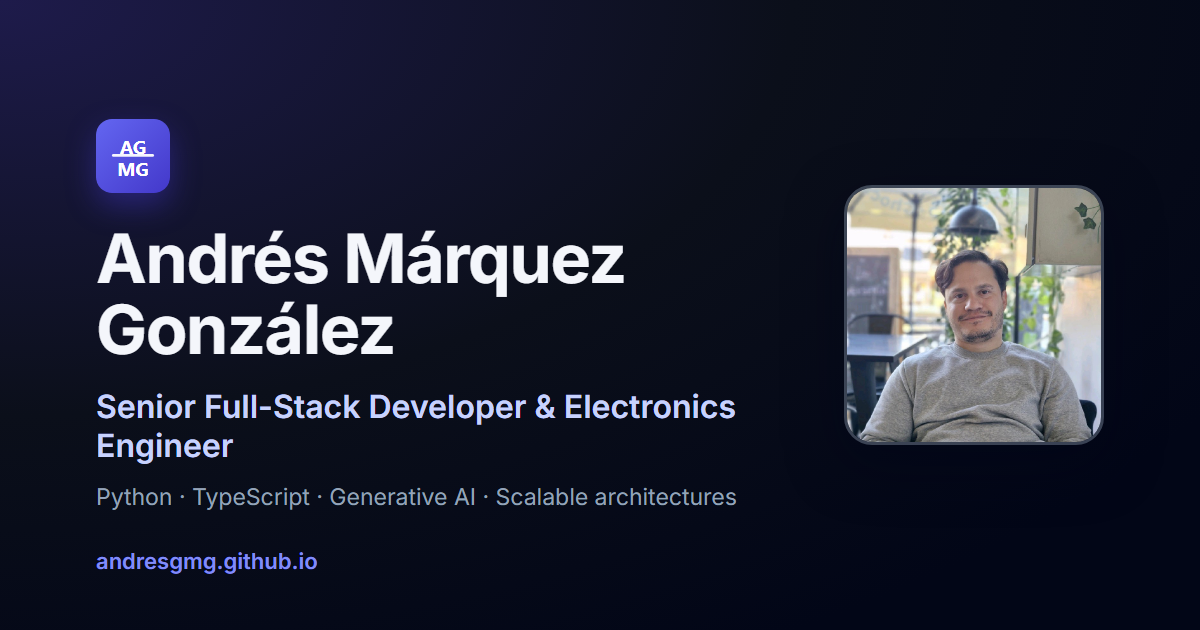
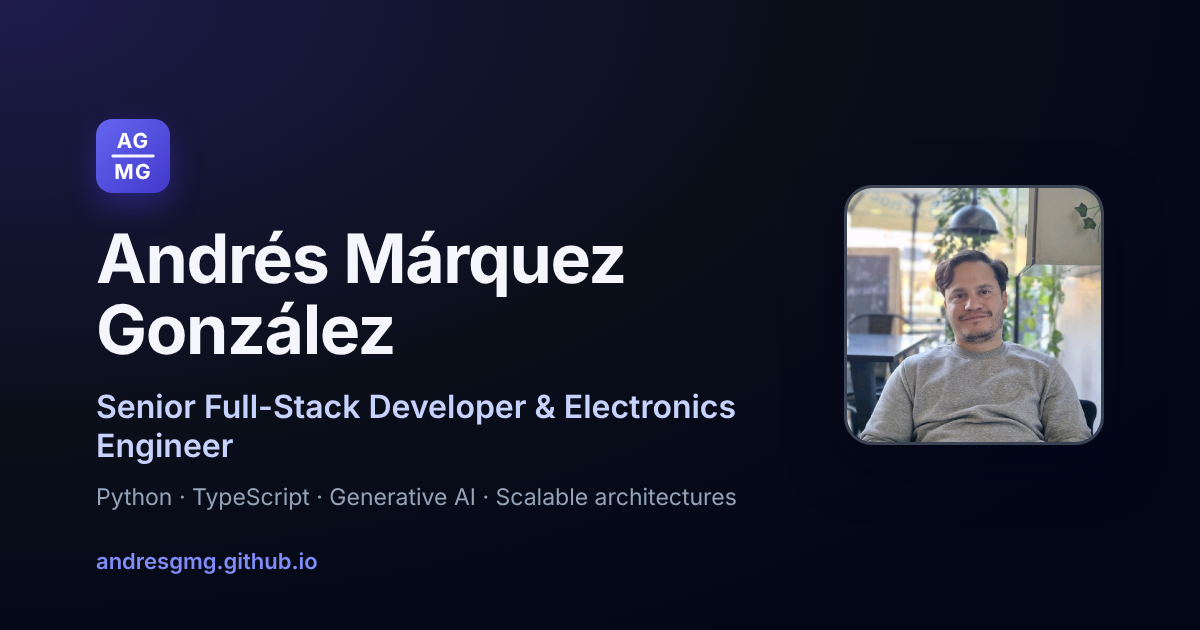
feat(seo): ProfilePage JSON-LD, AI-friendly endpoints, optimized hero image
- JSON-LD: wrap Person in ProfilePage/WebSite, add worksFor, hasOccupation,
  alumniOf from data, alternateName, og:image:alt and rel="me".
- New build-time endpoints generated from src/data: /llms.txt (llmstxt.org
  index), /llms-full.txt (full CV in Markdown, EN + ES) and /resume.json
  (JSON Resume schema). Shared renderers live in src/lib/cv-text.ts.
- Hero photo moved to src/assets and served through astro:assets as
  responsive WebP (135 KB JPEG -> 15/45 KB); og-image script inlines the
  photo and the self-hosted font so it runs offline.
- Un-ignore src/lib (the inherited Python .gitignore hid it).

Claude-Session: https://claude.ai/code/session_01Y165Hydmqg4uXAjxFpg5pz

diff --git a/src/lib/cv-text.ts b/src/lib/cv-text.ts
@@ -1,0 +1,190 @@
+import {
+  certifications,
+  education,
+  experience,
+  profile,
+  projects,
+  skillCategories,
+  spokenLanguages,
+} from '../data';
+import type { Lang } from '../data/types';
+import { formatDateRange, useTranslations } from '../i18n/utils';
+
+/**
+ * Plain-text / Markdown renderers of the same content that powers the site and the PDF CV.
+ * Used by the AI-friendly endpoints (`/llms.txt`, `/llms-full.txt`) and `/resume.json`.
+ */
+
+const SITE = profile.website.replace(/\/$/, '');
+
+const lines = (...parts: (string | false | null | undefined)[]) =>
+  parts.filter((p): p is string => typeof p === 'string').join('\n');
+
+/** Full CV as Markdown, one language. */
+export function cvMarkdown(lang: Lang): string {
+  const t = useTranslations(lang);
+  const work = experience.filter((e) => e.kind === 'work');
+  const freelance = experience.filter((e) => e.kind === 'freelance');
+
+  const role = (e: (typeof experience)[number]) =>
+    lines(
+      `### ${e.title[lang]} — ${e.company}`,
+      `${formatDateRange(e.start, e.end, lang)} · ${e.location[lang]}${e.url ? ` · ${e.url}` : ''}`,
+      '',
+      ...e.highlights[lang].map((h) => `- ${h}`),
+      '',
+      `${t('experience.stack')}: ${e.stack.join(', ')}`,
+      '',
+    );
+
+  return lines(
+    `# ${profile.name}`,
+    '',
+    `**${profile.headline[lang]}** — ${profile.tagline[lang]}`,
+    '',
+    `- ${profile.location[lang]}`,
+    `- ${profile.email}`,
+    `- ${SITE}`,
+    ...profile.socials
+      .filter((s) => s.href.startsWith('http'))
+      .map((s) => `- ${s.label}: ${s.href}`),
+    `- CV (PDF): ${SITE}${profile.cv.en} · ${SITE}${profile.cv.es}`,
+    '',
+    `## ${t('cv.summary')}`,
+    '',
+    profile.summary[lang],
+    '',
+    `## ${t('cv.competencies')}`,
+    '',
+    ...skillCategories.map((c) => `- **${c.name[lang]}:** ${c.skills.join(', ')}`),
+    '',
+    `## ${t('cv.experience')}`,
+    '',
+    ...work.map(role),
+    `## ${t('experience.freelance')}`,
+    '',
+    ...freelance.map(role),
+    `## ${t('section.projects')}`,
+    '',
+    ...projects.map(
+      (p) =>
+        `- **${p.name}** — ${p.description[lang]}${p.url ? ` (${p.url})` : ''}${p.repo ? ` · ${p.repo}` : ''}`,
+    ),
+    '',
+    `## ${t('cv.education')}`,
+    '',
+    ...education.map(
+      (ed) => `- ${ed.degree[lang]} — ${ed.institution}, ${ed.location[lang]} (${ed.start}–${ed.end})`,
+    ),
+    '',
+    `## ${t('cv.certifications')}`,
+    '',
+    ...certifications.map(
+      (c) =>
+        `- ${c.name[lang]} — ${c.issuer}${c.year ? ` (${c.year})` : ''}${c.url ? ` · ${c.url}` : ''}`,
+    ),
+    '',
+    `## ${t('cv.languages')}`,
+    '',
+    ...spokenLanguages.map((l) => `- ${l.name[lang]}: ${l.level[lang]}`),
+    '',
+  );
+}
+
+/** Short `/llms.txt` index following the llmstxt.org convention. */
+export function llmsIndex(): string {
+  const current = experience.filter((e) => e.end === null);
+  const linkedin = profile.socials.find((s) => s.icon === 'linkedin');
+  const github = profile.socials.find((s) => s.icon === 'github');
+
+  return lines(
+    `# ${profile.name}`,
+    '',
+    `> ${profile.headline.en}. ${profile.summary.en}`,
+    '',
+    `${profile.name} (Andrés Márquez, @andresgmg) is based in ${profile.location.en}. Bilingual portfolio: English at ${SITE}/ and Spanish at ${SITE}/es/.`,
+    '',
+    '## Current roles',
+    '',
+    ...current.map((e) => `- ${e.title.en} at ${e.company} (${formatDateRange(e.start, e.end, 'en')})`),
+    '',
+    '## Core skills',
+    '',
+    ...skillCategories.map((c) => `- ${c.name.en}: ${c.skills.join(', ')}`),
+    '',
+    '## Resources',
+    '',
+    `- [Full CV (Markdown, EN + ES)](${SITE}/llms-full.txt): every role, highlight, skill, degree and certification`,
+    `- [JSON Resume](${SITE}/resume.json): machine-readable CV (jsonresume.org schema)`,
+    `- [CV PDF — English](${SITE}${profile.cv.en})`,
+    `- [CV PDF — Spanish](${SITE}${profile.cv.es})`,
+    github && `- [GitHub](${github.href})`,
+    linkedin && `- [LinkedIn](${linkedin.href})`,
+    `- Contact: ${profile.email}`,
+    '',
+    '## Optional',
+    '',
+    `- [Portfolio (English)](${SITE}/)`,
+    `- [Portafolio (Español)](${SITE}/es/)`,
+    '',
+  );
+}
+
+/** CV in the JSON Resume schema (https://jsonresume.org/schema). English strings. */
+export function jsonResume(imageUrl?: string) {
+  const lang: Lang = 'en';
+  const toDate = (ym: string) => `${ym}-01`;
+  const linkedin = profile.socials.find((s) => s.icon === 'linkedin');
+  const github = profile.socials.find((s) => s.icon === 'github');
+
+  return {
+    $schema: 'https://raw.githubusercontent.com/jsonresume/resume-schema/v1.0.0/schema.json',
+    basics: {
+      name: profile.name,
+      label: profile.headline[lang],
+      image: imageUrl,
+      email: profile.email,
+      phone: profile.phone,
+      url: SITE,
+      summary: profile.summary[lang],
+      location: { city: 'Santiago', countryCode: 'CL' },
+      profiles: [
+        github && { network: 'GitHub', username: 'andresgmg', url: github.href },
+        linkedin && { network: 'LinkedIn', username: 'andresgmg', url: linkedin.href },
+      ].filter(Boolean),
+    },
+    work: experience.map((e) => ({
+      name: e.company,
+      position: e.title[lang],
+      url: e.url,
+      location: e.location[lang],
+      startDate: toDate(e.start),
+      endDate: e.end ? toDate(e.end) : undefined,
+      summary: e.kind === 'freelance' ? 'Freelance / consulting' : undefined,
+      highlights: e.highlights[lang],
+      keywords: e.stack,
+    })),
+    education: education.map((ed) => ({
+      institution: ed.institution,
+      area: 'Electronics Engineering',
+      studyType: 'Bachelor',
+      startDate: ed.start,
+      endDate: ed.end,
+    })),
+    certificates: certifications.map((c) => ({
+      name: c.name[lang],
+      issuer: c.issuer,
+      date: c.year,
+      url: c.url,
+    })),
+    skills: skillCategories.map((c) => ({ name: c.name[lang], keywords: c.skills })),
+    languages: spokenLanguages.map((l) => ({ language: l.name[lang], fluency: l.level[lang] })),
+    projects: projects.map((p) => ({
+      name: p.name,
+      description: p.description[lang],
+      url: p.url ?? p.repo,
+      keywords: p.tags,
+    })),
+    meta: { canonical: `${SITE}/resume.json`, lastModified: new Date().toISOString() },
+  };
+}

diff --git a/src/pages/resume.json.ts b/src/pages/resume.json.ts
@@ -1,0 +1,14 @@
+import type { APIRoute } from 'astro';
+import { getImage } from 'astro:assets';
+import profilePhoto from '../assets/profile.jpg';
+import { profile } from '../data';
+import { jsonResume } from '../lib/cv-text';
+
+/** Machine-readable CV in the JSON Resume schema (https://jsonresume.org/schema). */
+export const GET: APIRoute = async () => {
+  const photo = await getImage({ src: profilePhoto, width: 640, format: 'webp' });
+  const imageUrl = new URL(photo.src, profile.website).href;
+  return new Response(JSON.stringify(jsonResume(imageUrl), null, 2), {
+    headers: { 'Content-Type': 'application/json; charset=utf-8' },
+  });
+};

diff --git a/src/pages/llms-full.txt.ts b/src/pages/llms-full.txt.ts
@@ -1,0 +1,8 @@
+import type { APIRoute } from 'astro';
+import { cvMarkdown } from '../lib/cv-text';
+
+/** Full CV in Markdown, English first then Spanish. Generated from src/data at build time. */
+export const GET: APIRoute = () =>
+  new Response([cvMarkdown('en'), '---', '', cvMarkdown('es')].join('\n'), {
+    headers: { 'Content-Type': 'text/plain; charset=utf-8' },
+  });

diff --git a/src/pages/llms.txt.ts b/src/pages/llms.txt.ts
@@ -1,0 +1,6 @@
+import type { APIRoute } from 'astro';
+import { llmsIndex } from '../lib/cv-text';
+
+/** AI-crawler friendly index (https://llmstxt.org). Generated from src/data at build time. */
+export const GET: APIRoute = () =>
+  new Response(llmsIndex(), { headers: { 'Content-Type': 'text/plain; charset=utf-8' } });

diff --git a/README.md b/README.md
@@ -12,7 +12,9 @@ bilingual (English / Spanish), and continuously deployed to **GitHub Pages** via
 
 - **Bilingual (EN/ES)** with Astro i18n — English at `/`, Spanish at `/es/`.
 - **SEO & ATS optimized** — semantic HTML, Open Graph/Twitter cards, canonical + `hreflang`,
-  `sitemap`, `robots.txt`, and JSON-LD `Person` structured data.
+  `sitemap`, `robots.txt`, and JSON-LD `ProfilePage` + `Person` structured data.
+- **AI-friendly** — `/llms.txt` (index), `/llms-full.txt` (full CV in Markdown, EN + ES) and
+  `/resume.json` (JSON Resume schema), all generated at build time from the same data.
 - **Light / dark theme** with system preference detection and no flash on load.
 - **Downloadable CVs** (EN + ES) as selectable, tagged, ATS-readable 2-page PDFs generated in CI
   from the same content source as the website — they can never drift from the site.
@@ -34,9 +36,11 @@ Playwright + `pdf-lib` (CV PDF generation) · Prettier · GitHub Actions · GitH
 ├── src/
 │   ├── components/         # UI sections (Hero, Experience, Skills, …) + Icon
 │   ├── data/               # Single source of truth (profile, experience, skills, …)
+│   ├── assets/             # profile.jpg (optimized by astro:assets at build time)
 │   ├── i18n/               # UI strings dictionary + helpers
 │   ├── layouts/            # Layout.astro (site) + CvLayout.astro (print)
-│   ├── pages/              # index.astro (EN), es/index.astro (ES), cv/en, cv/es
+│   ├── lib/                # cv-text.ts: Markdown / JSON Resume renderers of the data
+│   ├── pages/              # index (EN), es/index (ES), cv/en, cv/es, llms.txt, resume.json
 │   └── styles/             # global.css design system
 ├── astro.config.mjs        # site + i18n + sitemap
 └── .github/workflows/      # ci.yml (PRs) + deploy.yml (Pages)
